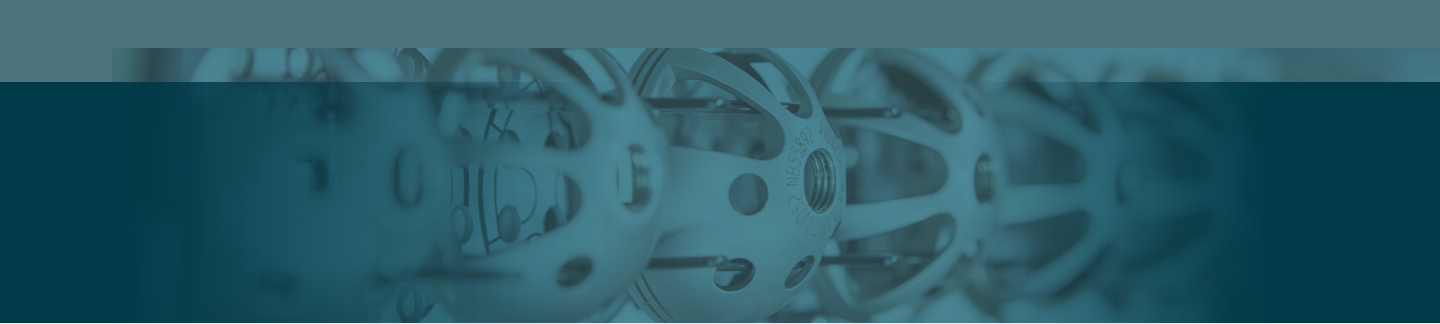
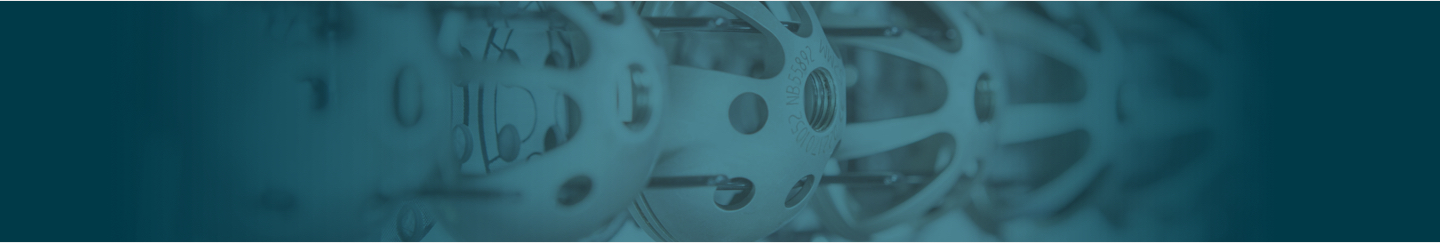
update last modify

diff --git a/view_order.html b/view_order.html
@@ -86,7 +86,7 @@
                     <a href="index.html" class="item">Home</a>
                     <a href="view_order.html" class="active item">VIEW ORDERS</a>
                     <a class="item">CREATE ORDER</a>
-                    <a class="item">FAQs</a>
+                    <a href="faqs.html" class="item">FAQs</a>
                     <div class="right item">
                         <a href="#" class="zp-dss-language zp-dss-right-menu" >ENG <img src="assets/images/colour-1.svg" /></a>
                         <a href="" class="zp-dss-right-menu" ><img src="assets/images/colour-2.svg" /></a>
@@ -94,7 +94,7 @@
                             <img src="assets/images/green-1.svg" />
                             <span class="zp-dss-notif" >1</span>
                         </a>
-                        <a href="">
+                        <a href="" class="zp-dss-right-menu" >
                             <img src="assets/images/green-2.svg" />
                         </a>
                     </div>
@@ -129,7 +129,7 @@
                                 </div>
                                 <div class="field">
                                     <label></label>
-                                    <button class="ui primary button" style="margin-top:20px;" >
+                                    <button class="ui button" style="margin-top:20px;background-color:#005d62; color: #ffffff;" >
                                         SEARCH
                                     </button>
                                 </div>

diff --git a/index.html b/index.html
@@ -93,14 +93,14 @@
                             <img src="assets/images/green-1.svg" />
                             <span class="zp-dss-notif" >1</span>
                         </a>
-                        <a href="">
+                        <a href="" class="zp-dss-right-menu" >
                             <img src="assets/images/green-2.svg" />
                         </a>
                     </div>
                 </div>
             </div>
 
-            <div class="ui text container zp-dss-image-dashboard" style="background: url('assets/images/header_img_desktop_HD.png')" >
+            <div class="ui text container zp-dss-image-dashboard" style="background: url('assets/images/header-img-desktop-hd@3x.jpg')" >
                 
                 <h1 class="ui welcomeback">
                     Welcome back,

diff --git a/faqs.html b/faqs.html
@@ -94,7 +94,7 @@
                             <img src="assets/images/green-1.svg" />
                             <span class="zp-dss-notif" >1</span>
                         </a>
-                        <a href="">
+                        <a href="" class="zp-dss-right-menu">
                             <img src="assets/images/green-2.svg" />
                         </a>
                     </div>

diff --git a/assets/css/zp-dss.css b/assets/css/zp-dss.css
@@ -366,7 +366,7 @@
 
 .zp-dss-focus{
     font-family: Raleway;
-    font-size: 20px;
+    font-size: 17px;
     font-weight: 900;
     font-style: normal;
     font-stretch: normal;
